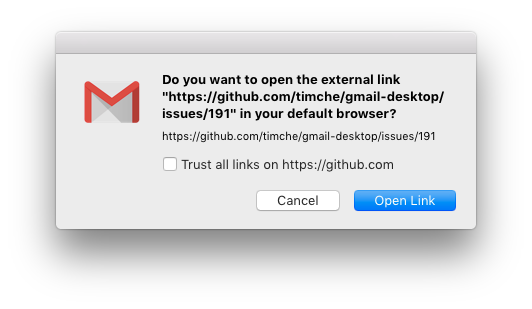
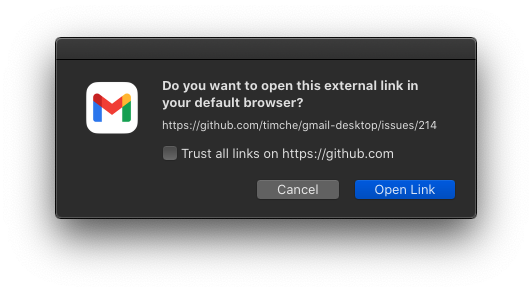
shorten open external url dialog message

diff --git a/src/app.ts b/src/app.ts
@@ -266,7 +266,7 @@ async function openExternalUrl(url: string): Promise<void> {
       const { response, checkboxChecked } = await dialog.showMessageBox({
         type: 'info',
         buttons: ['Open Link', 'Cancel'],
-        message: `Do you want to open the external link "${cleanURL}" in your default browser?`,
+        message: `Do you want to open this external link in your default browser?`,
         checkboxLabel: `Trust all links on ${origin}`,
         detail: cleanURL
       })
